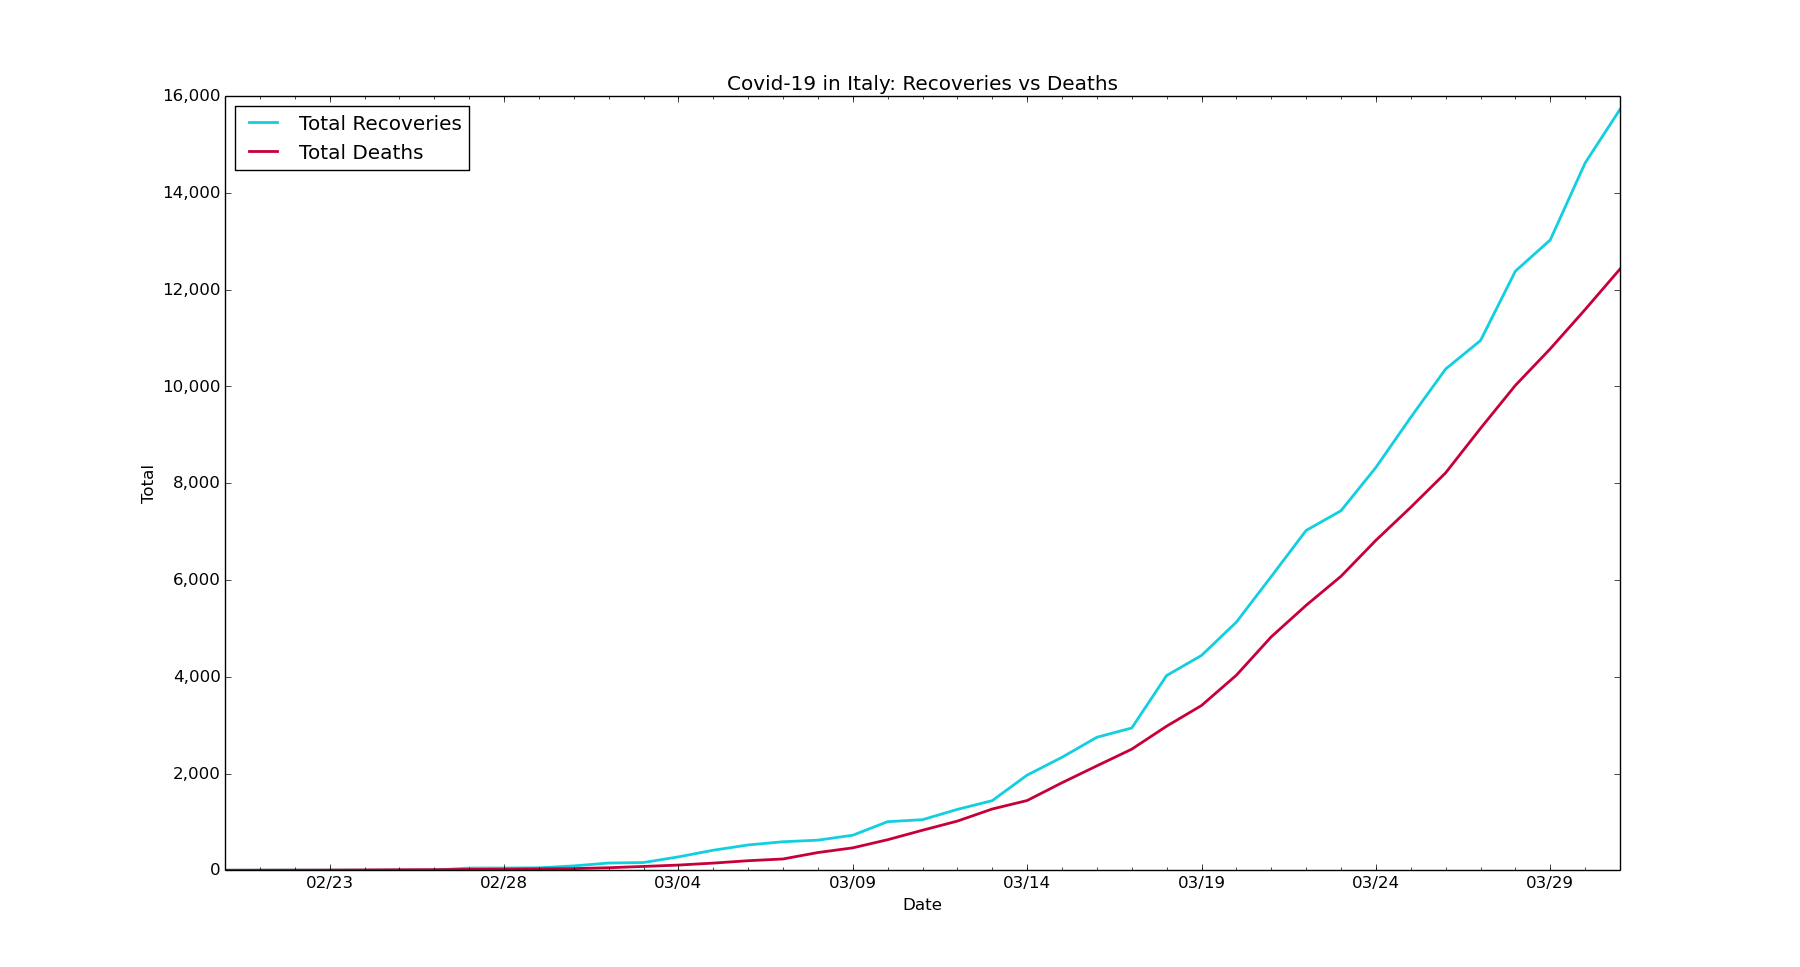
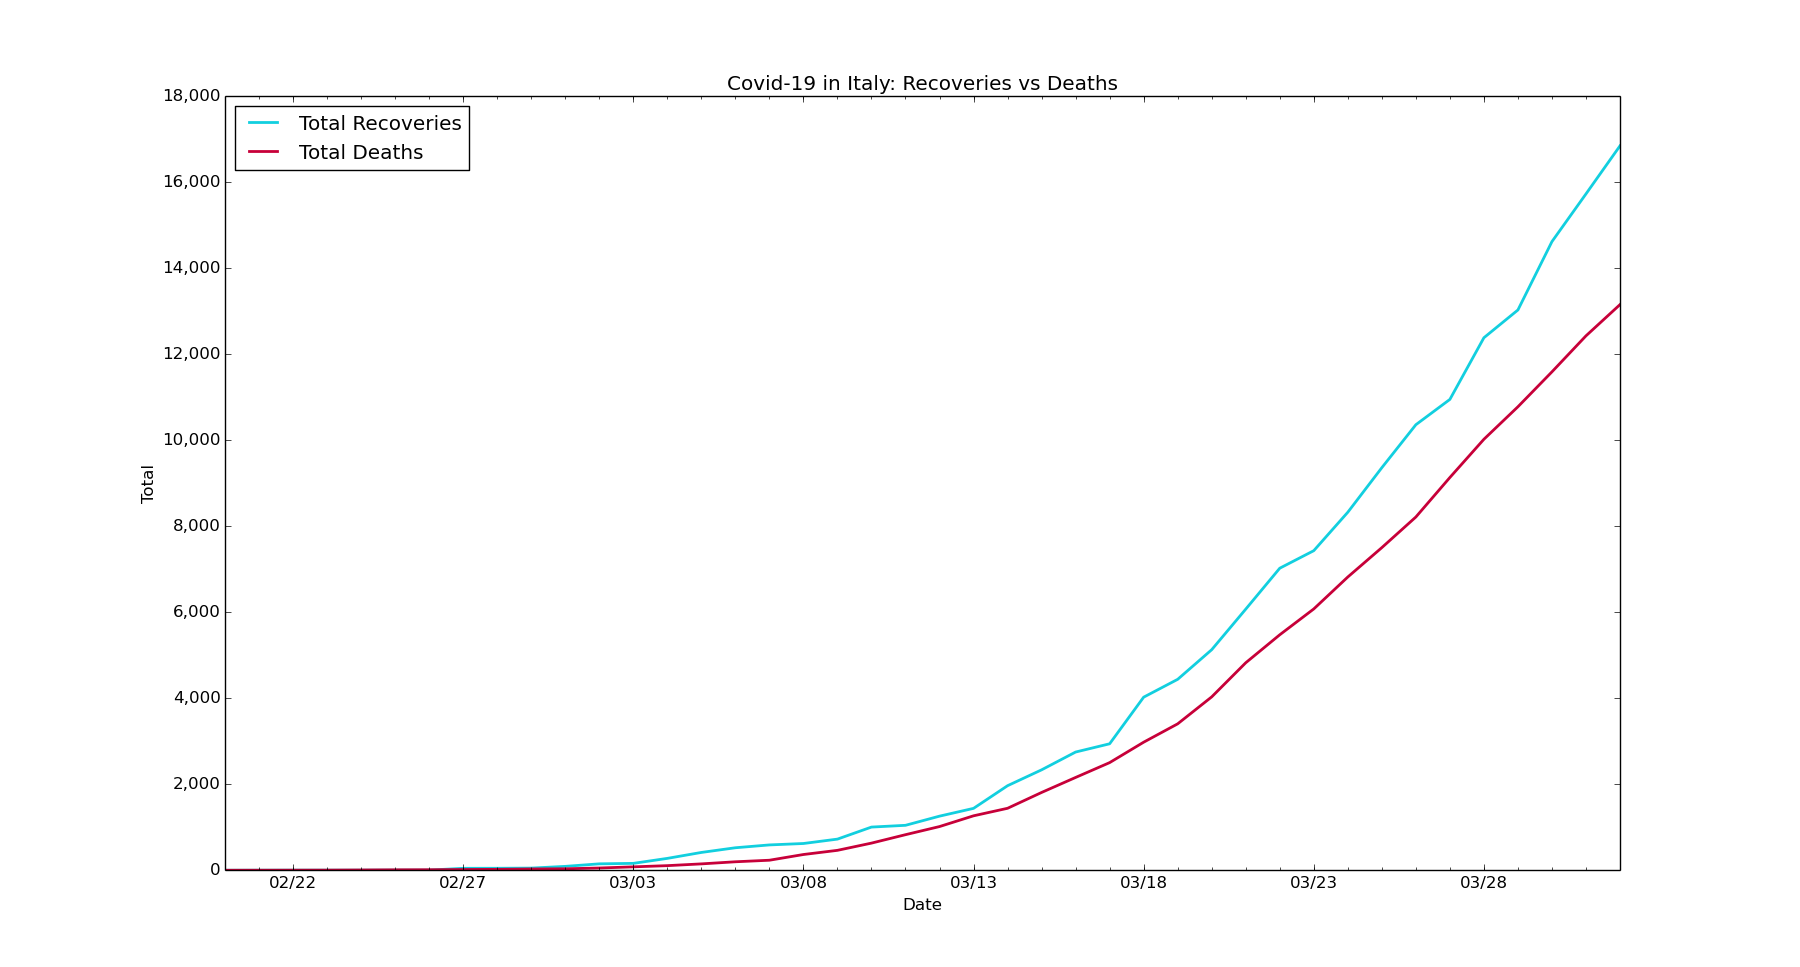
chore: Update data for Italy

diff --git a/italy/it-nc.py b/italy/it-nc.py
@@ -5,7 +5,7 @@ import matplotlib.pyplot as plt
 import matplotlib.dates as mdates
 from matplotlib.dates import MO, TU, WE, TH, FR, SA, SU
 
-dates = ['1/31/2020', '2/1/2020', '2/2/2020', '2/3/2020', '2/4/2020', '2/5/2020', '2/6/2020', '2/7/2020', '2/8/2020', '2/9/2020', '2/10/2020', '2/11/2020', '2/12/2020', '2/13/2020', '2/14/2020', '2/15/2020', '2/16/2020', '2/17/2020', '2/18/2020', '2/19/2020', '2/20/2020', '2/21/2020', '2/22/2020', '2/23/2020', '2/24/2020', '2/25/2020', '2/26/2020', '2/27/2020', '2/28/2020', '2/29/2020', '3/1/2020', '3/2/2020', '3/3/2020', '3/4/2020', '3/5/2020', '3/6/2020', '3/7/2020', '3/8/2020', '3/9/2020', '3/10/2020', '3/11/2020', '3/12/2020', '3/13/2020', '3/14/2020', '3/15/2020', '3/16/2020', '3/17/2020', '3/18/2020', '3/19/2020', '3/20/2020', '3/21/2020', '3/22/2020', '3/23/2020', '3/24/2020', '3/25/2020', '3/26/2020', '3/27/2020', '3/28/2020', '3/29/2020', '3/30/2020', '3/31/2020']
+dates = ['1/31/2020', '2/1/2020', '2/2/2020', '2/3/2020', '2/4/2020', '2/5/2020', '2/6/2020', '2/7/2020', '2/8/2020', '2/9/2020', '2/10/2020', '2/11/2020', '2/12/2020', '2/13/2020', '2/14/2020', '2/15/2020', '2/16/2020', '2/17/2020', '2/18/2020', '2/19/2020', '2/20/2020', '2/21/2020', '2/22/2020', '2/23/2020', '2/24/2020', '2/25/2020', '2/26/2020', '2/27/2020', '2/28/2020', '2/29/2020', '3/1/2020', '3/2/2020', '3/3/2020', '3/4/2020', '3/5/2020', '3/6/2020', '3/7/2020', '3/8/2020', '3/9/2020', '3/10/2020', '3/11/2020', '3/12/2020', '3/13/2020', '3/14/2020', '3/15/2020', '3/16/2020', '3/17/2020', '3/18/2020', '3/19/2020', '3/20/2020', '3/21/2020', '3/22/2020', '3/23/2020', '3/24/2020', '3/25/2020', '3/26/2020', '3/27/2020', '3/28/2020', '3/29/2020', '3/30/2020', '3/31/2020', '4/1/2020']
 
 # format dates
 x_values = [dt.datetime.strptime(d, "%m/%d/%Y").date() for d in dates]
@@ -27,7 +27,7 @@ plt.axvline(dt.datetime(2020, 3, 4), linestyle='--', color='orange', linewidth=2
 plt.axvline(dt.datetime(2020, 3, 21), color='#0b28f7', linewidth=2, label='nonessential')
 
 # new cases by day
-new_cases = [2, 0, 0, 0, 0, 0, 1, 0, 0, 0, 0, 0, 0, 0, 0, 0, 0, 0, 0, 0, 0, 17, 58, 78, 72, 94, 147, 185, 234, 239, 573, 335, 466, 587, 769, 778, 1247, 1492, 1797, 977, 2313, 2651, 2547, 3497, 3590, 3233, 3526, 4207, 5322, 5986, 6557, 5560, 4789, 5249, 5210, 6203, 5909, 5974, 5217, 4050, 4053]
+new_cases = [2, 0, 0, 0, 0, 0, 1, 0, 0, 0, 0, 0, 0, 0, 0, 0, 0, 0, 0, 0, 0, 17, 58, 78, 72, 94, 147, 185, 234, 239, 573, 335, 466, 587, 769, 778, 1247, 1492, 1797, 977, 2313, 2651, 2547, 3497, 3590, 3233, 3526, 4207, 5322, 5986, 6557, 5560, 4789, 5249, 5210, 6203, 5909, 5974, 5217, 4050, 4053, 4782]
 
 # text labels
 plt.title('Covid-19 in Italy: New Confirmed Diagnoses')

diff --git a/italy/it-rvd.py b/italy/it-rvd.py
@@ -6,7 +6,7 @@ import matplotlib.dates as mdates
 import matplotlib.ticker as ticker
 from matplotlib.dates import MO, TU, WE, TH, FR, SA, SU
 
-dates = ['2/20/2020', '2/21/2020', '2/22/2020', '2/23/2020', '2/24/2020', '2/25/2020', '2/26/2020', '2/27/2020', '2/28/2020', '2/29/2020', '3/1/2020', '3/2/2020', '3/3/2020', '3/4/2020', '3/5/2020', '3/6/2020', '3/7/2020', '3/8/2020', '3/9/2020', '3/10/2020', '3/11/2020', '3/12/2020', '3/13/2020', '3/14/2020', '3/15/2020', '3/16/2020', '3/17/2020', '3/18/2020', '3/19/2020', '3/20/2020', '3/21/2020', '3/22/2020', '3/23/2020', '3/24/2020', '3/25/2020', '3/26/2020', '3/27/2020', '3/28/2020', '3/29/2020', '3/30/2020', '3/31/2020']
+dates = ['2/20/2020', '2/21/2020', '2/22/2020', '2/23/2020', '2/24/2020', '2/25/2020', '2/26/2020', '2/27/2020', '2/28/2020', '2/29/2020', '3/1/2020', '3/2/2020', '3/3/2020', '3/4/2020', '3/5/2020', '3/6/2020', '3/7/2020', '3/8/2020', '3/9/2020', '3/10/2020', '3/11/2020', '3/12/2020', '3/13/2020', '3/14/2020', '3/15/2020', '3/16/2020', '3/17/2020', '3/18/2020', '3/19/2020', '3/20/2020', '3/21/2020', '3/22/2020', '3/23/2020', '3/24/2020', '3/25/2020', '3/26/2020', '3/27/2020', '3/28/2020', '3/29/2020', '3/30/2020', '3/31/2020', '4/1/2020']
 
 # format dates
 x_values = [datetime.datetime.strptime(d, "%m/%d/%Y").date() for d in dates]
@@ -24,10 +24,10 @@ ax.xaxis.set_minor_locator(mdates.WeekdayLocator(byweekday=(MO, TU, WE, TH, FR, 
 ax.get_yaxis().set_major_formatter(ticker.FuncFormatter(lambda x, pos: format(int(x), ',')))
 
 # recoveries
-recoveries = [0, 1, 2, 2, 2, 3, 3, 45, 46, 50, 90, 149, 160, 276, 414, 523, 589, 622, 724, 1004, 1045, 1258, 1439, 1966, 2335, 2749, 2941, 4025, 4440, 5129, 6072, 7024, 7432, 8326, 9362, 10361, 10950, 12384, 13030, 14620, 15729]
+recoveries = [0, 1, 2, 2, 2, 3, 3, 45, 46, 50, 90, 149, 160, 276, 414, 523, 589, 622, 724, 1004, 1045, 1258, 1439, 1966, 2335, 2749, 2941, 4025, 4440, 5129, 6072, 7024, 7432, 8326, 9362, 10361, 10950, 12384, 13030, 14620, 15729, 16847]
 
 # deaths
-deaths = [0, 1, 2, 3, 6, 10, 12, 17, 21, 29, 34, 52, 79, 107, 148, 197, 233, 366, 463, 631, 827, 1016, 1266, 1441, 1809, 2158, 2503, 2978, 3405, 4032, 4825, 5476, 6077, 6820, 7503, 8215, 9134, 10023, 10779, 11591, 12428]
+deaths = [0, 1, 2, 3, 6, 10, 12, 17, 21, 29, 34, 52, 79, 107, 148, 197, 233, 366, 463, 631, 827, 1016, 1266, 1441, 1809, 2158, 2503, 2978, 3405, 4032, 4825, 5476, 6077, 6820, 7503, 8215, 9134, 10023, 10779, 11591, 12428, 13155]
 
 # create the graph
 plt.plot(x_values, recoveries, color='#12cfdf', linewidth=2)
